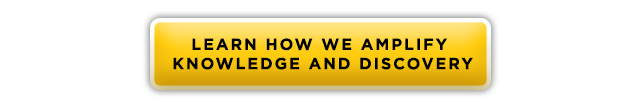
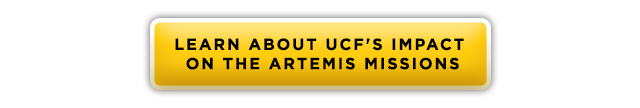
Space Artemis updates

Changed region(s): [[0.25, 0.5278, 0.75, 0.6667], [0.25, 0.3333, 0.75, 0.4722]]

diff --git a/src/space-artemis.html b/src/space-artemis.html
@@ -47,7 +47,7 @@
                     <tbody>
                       <tr>
                         <td class="text-left">
-                          Since 1963, the University of Central Florida has been America’s Space University: a research and talent linchpin in support of NASA, SpaceX, Lockheed Martin and others the aerospace industry. Today, our faculty, alumni, and students are <a href="https://www.ucf.edu/news/ucf-knights-are-part-of-nasas-artemis-program-to-return-to-the-moon/?utm_source=newsletter&utm_medium=email&utm_campaign=chronicle_september_e-blast">key contributors</a> to the Artemis missions, which will land the first woman and first person of color on the moon in 2025.
+                          The University of Central Florida is becoming America’s Space University: a space research leader and talent linchpin supporting NASA, SpaceX, Lockheed Martin and others in the aerospace industry. Today, <strong>our faculty, alumni, and students are <a href="https://www.ucf.edu/news/ucf-knights-are-part-of-nasas-artemis-program-to-return-to-the-moon/?utm_source=newsletter&utm_medium=email&utm_campaign=chronicle_september_e-blast">key contributors</a> to the Artemis missions,</strong> helping return humankind to the moon in 2025.
                         </td>
                       </tr>
                     </tbody>
@@ -61,9 +61,11 @@
 
               <tr>
                 <td class="pb-4">
-                  <a href="https://www.ucf.edu/space/artemis-program/?utm_source=newsletter&utm_medium=email&utm_campaign=chronicle_september_e-blast&utm_content=top_button"><img class="mw-100"
-                      src="https://s3.amazonaws.com/web.ucf.edu/email/2022-chronicle-email/space-artemis/ArtemisSpace-Button.png"
-                      alt="Discover how UCF fuels space exporations"></a>
+                  <a href="https://www.ucf.edu/space/artemis-program/?utm_source=newsletter&utm_medium=email&utm_campaign=chronicle_september_e-blast&utm_content=bottom_button">
+                    <img class="mw-100"
+                      src="https://s3.amazonaws.com/web.ucf.edu/email/2022-chronicle-email/space-artemis/ArtemisSpace-button-footer.png"
+                      alt="Learn how we amplify knowledge and discovery">
+                  </a>
                 </td>
               </tr>
               <!-- END Image -->
@@ -76,7 +78,7 @@
                     <tbody>
                       <tr>
                         <td class="text-left">
-                          <a href="https://www.ucf.edu/space/artemis-program/?utm_source=newsletter&utm_medium=email&utm_campaign=chronicle_september_e-blast">Artemis I</a> – scheduled to launch this year – will be remembered as the foundation for intergalactic exploration, with more than 30 UCF alumni at NASA having played crucial roles in expanding the horizon for humankind. Through involvement in Artemis, we embrace our belief in unleashing the potential of people and ideas and inspire a new generation to enrich the human experience.
+                          <a href="https://www.ucf.edu/space/artemis-program/?utm_source=newsletter&utm_medium=email&utm_campaign=chronicle_september_e-blast">Artemis I</a> – scheduled to launch this year – will be remembered as the foundation for intergalactic exploration, with more than 30 UCF alumni at NASA having played crucial roles in expanding the horizon for humankind. Through involvement in Artemis, we embrace our belief in <strong>unleashing the potential of people and ideas</strong> and inspire a new generation to enrich the human experience.
                         </td>
                       </tr>
                     </tbody>
@@ -117,7 +119,7 @@
                     <tbody>
                       <tr>
                         <td class="text-left">
-                          Our world-renown faculty are inventors and leaders who are shaping the next generation of space industry talent. Their research programs with NASA include projects like Artemis I, as well as over a <a href="https://www.ucf.edu/news/ucf-has-more-than-a-dozen-research-projects-aimed-at-returning-the-u-s-to-the-moon/?utm_source=newsletter&utm_medium=email&utm_campaign=chronicle_september_e-blast">dozen lunar missions</a>. Through innovative research and groundbreaking discoveries, our experts in engineering, physics, and planetary sciences unlock the possibilities of the future with forward-thinking solutions.
+                          Our world-renowned faculty are inventors and leaders who are shaping the next generation of space industry talent. Their research programs, conducted with NASA, include projects like Artemis I, as well as over a <a href="https://www.ucf.edu/news/ucf-has-more-than-a-dozen-research-projects-aimed-at-returning-the-u-s-to-the-moon/?utm_source=newsletter&utm_medium=email&utm_campaign=chronicle_september_e-blast">dozen lunar missions</a>. Through innovative research and groundbreaking discoveries, our experts in engineering, physics, and planetary sciences unlock the possibilities of the future with forward-thinking solutions.
                         </td>
                       </tr>
                     </tbody>
@@ -145,12 +147,12 @@
                           <img
                             src="https://s3.amazonaws.com/web.ucf.edu/email/2022-chronicle-email/space-artemis/ArtemisSpace-h3-explore.jpg"
                             class="img-fluid"
-                            alt="Photo of the moon">
+                            alt="UCF planetary scientists Kerri Donaldson Hanna and Adrienne Dove and photo of the moon">
                         </td>
                         <td class="column-2-3 text-left bg-secondary">
                           <strong class="text-primary">Exploring the Unknown</strong>
                           <table class="line-break"><tr><td class="py-1"></td></tr></table>
-                          Only 5% of the moon has been explored— for now. UCF planetary scientists Kerri Donaldson Hanna and Adrienne Dove seek to map those areas with their $35 million NASA mission to land a spacecraft on the <a href="https://www.ucf.edu/news/nasa-selects-ucf-for-35-million-mission-to-the-moons-mysterious-gruithuisen-domes/?utm_source=newsletter&utm_medium=email&utm_campaign=chronicle_september_e-blast" class="text-primary">mysterious Gruithuisen Domes</a> By studying the domes’ chemical composition, researchers can discover resources and insights to enable long-term exploration of the moon.
+                          Only 5% of the moon has been explored— for now. UCF planetary scientists Kerri Donaldson Hanna and Adrienne Dove seek to map those areas with their $35 million NASA mission to land a spacecraft on the <a href="https://www.ucf.edu/news/nasa-selects-ucf-for-35-million-mission-to-the-moons-mysterious-gruithuisen-domes/?utm_source=newsletter&utm_medium=email&utm_campaign=chronicle_september_e-blast" class="text-primary">mysterious Gruithuisen Domes</a>. By studying the domes’ chemical composition, researchers can discover resources and insights to enable long-term exploration of the moon.
                         </td>
                       </tr>
                     </tbody>
@@ -163,15 +165,36 @@
                     <tbody>
                       <tr>
                         <td class="column-1-3">
-                            <img
-                              src="https://s3.amazonaws.com/web.ucf.edu/email/2022-chronicle-email/space-artemis/ArtemisSpace-h3-land.jpg"
-                              class="img-fluid"
-                              alt="Astronaut on the moon">
+                          <img
+                            src="https://s3.amazonaws.com/web.ucf.edu/email/2022-chronicle-email/space-artemis/ArtemisSpace-h3-land.jpg"
+                            class="img-fluid"
+                            alt="Professor and principal investigator Seetha Raghavan and the moon surface">
+                        </td>
+                        <td class="column-2-3 text-left bg-secondary">
+                          <strong class="text-primary">Preserving Spacecraft Integrity</strong>
+                          <table class="line-break"><tr><td class="py-1"></td></tr></table>
+                          Moon landings require technological excellence for spacecrafts to descend upon an uneven surface of rocks and craters. Through a <a href="https://www.ucf.edu/news/ucf-is-1-of-7-universities-to-win-grant-to-support-nasas-artemis-program/?utm_source=newsletter&utm_medium=email&utm_campaign=chronicle_september_e-blast" class="text-primary">$500,000 Artemis grant</a>, UCF Professor and principal investigator Seetha Raghavan is leading the development of 3D printed sensors and coatings to advance the safety of future lunar landings far beyond what was possible with the Apollo program.
+                        </td>
+                      </tr>
+                    </tbody>
+                  </table>
+                </td>
+              </tr>
+              <tr>
+                <td class="pb-5">
+                  <table class="container-inner">
+                    <tbody>
+                      <tr>
+                        <td class="column-1-3">
+                          <img
+                            src="https://s3.amazonaws.com/web.ucf.edu/email/2022-chronicle-email/space-artemis/ArtemisSpace-h3-pads.jpg"
+                            class="img-fluid"
+                            alt="Phil Metzger and the moon surface">
                         </td>
                         <td class="column-2-3 text-left bg-secondary">
                           <strong class="text-primary">Revolutionizing Lunar Landings</strong>
                           <table class="line-break"><tr><td class="py-1"></td></tr></table>
-                          Moon landings require technological excellence for spacecrafts to descend upon an uneven surface of rocks and craters. Through a <a href="https://www.ucf.edu/news/ucf-is-1-of-7-universities-to-win-grant-to-support-nasas-artemis-program/?utm_source=newsletter&utm_medium=email&utm_campaign=chronicle_september_e-blast" class="text-primary">$500,000 Artemis grant</a>, UCF Professor and principal investigator Seetha Raghavan is leading the development of 3D printed sensors and coating to advance safety of future lunar landings far beyond what was possible with the Apollo program.
+                          Rockets can sandblast lunar dust at more than 10,000 mph when they takeoff or land, which can severely damage equipment and historic landing sites. UCF planetary scientists Phil Metzger and Dhaka Sapkota are developing <a href="https://www.ucf.edu/news/ucf-knights-are-part-of-nasas-artemis-program-to-return-to-the-moon/?utm_source=newsletter&utm_medium=email&utm_campaign=chronicle_september_e-blast#landing-safely" class="text-primary">cutting-edge technology</a> that could be used to construct cost-effective landing pads in space. Metzger, who was recently featured in USA Today, is helping lead this NASA-funded research project.
                         </td>
                       </tr>
                     </tbody>
@@ -187,12 +210,12 @@
                             <img
                               src="https://s3.amazonaws.com/web.ucf.edu/email/2022-chronicle-email/space-artemis/ArtemisSpace-h3-dust.jpg"
                               class="img-fluid"
-                              alt="Dust on the moon">
+                              alt="UCF Professor Joshua Colwell, director of the Center of Microgravity Research and dust on the moon">
                         </td>
                         <td class="column-2-3 text-left bg-secondary">
                           <strong class="text-primary">Solving Cosmic Problems</strong>
                           <table class="line-break"><tr><td class="py-1"></td></tr></table>
-                          Dust particles can be hazardous for astronauts, their spacecrafts and equipment — yet data by UCF Professor Joshua Colwell, director of the Center of Microgravity Research, adds to the existing body of leading <a href="https://www.ucf.edu/news/ucf-experimental-space-dirt-used-by-nasa-private-companies-to-advance-space-exploration/?utm_source=newsletter&utm_medium=email&utm_campaign=chronicle_september_e-blast" class="text-primary">UCF space dust research</a> by specifying how to reduce its impact on equipment and astronauts.
+                          Dust particles can be hazardous for astronauts, their spacecrafts and equipment. Data by UCF Professor Joshua Colwell, director of the Center of Microgravity Research, adds to the existing body of leading <a href="https://www.ucf.edu/news/ucf-experimental-space-dirt-used-by-nasa-private-companies-to-advance-space-exploration/?utm_source=newsletter&utm_medium=email&utm_campaign=chronicle_september_e-blast" class="text-primary">UCF space dust research</a> by specifying how to reduce its impact on equipment and astronauts.
                         </td>
                       </tr>
                     </tbody>
@@ -216,7 +239,7 @@
                     <tbody>
                       <tr>
                         <td class="text-left">
-                          As NASA prepares to send humans back to the moon, UCF alumni and faculty will continue to support their efforts and drive our exploration deeper into the space for the future of humankind.
+                          As NASA prepares to send humans back to the moon, UCF alumni and faculty will continue to support their efforts and drive our exploration deeper into space for the future of humankind.
                         </td>
                       </tr>
                     </tbody>
@@ -233,12 +256,10 @@
                   <table class="container-inner">
                     <tbody>
                       <tr>
-                        <td>
-                          <a href="https://www.ucf.edu/space/artemis-program/?utm_source=newsletter&utm_medium=email&utm_campaign=chronicle_september_e-blast&utm_content=bottom_button">
-                            <img class="mw-100"
-                              src="https://s3.amazonaws.com/web.ucf.edu/email/2022-chronicle-email/space-artemis/ArtemisSpace-button-footer.png"
-                              alt="Learn how we amplify knowledge and discovery">
-                          </a>
+                        <td class="pb-4">
+                          <a href="https://www.ucf.edu/space/artemis-program/?utm_source=newsletter&utm_medium=email&utm_campaign=chronicle_september_e-blast&utm_content=top_button"><img class="mw-100"
+                              src="https://s3.amazonaws.com/web.ucf.edu/email/2022-chronicle-email/space-artemis/ArtemisSpace-Button.png"
+                              alt="Discover how UCF fuels space exporations"></a>
                         </td>
                       </tr>
                     </tbody>
